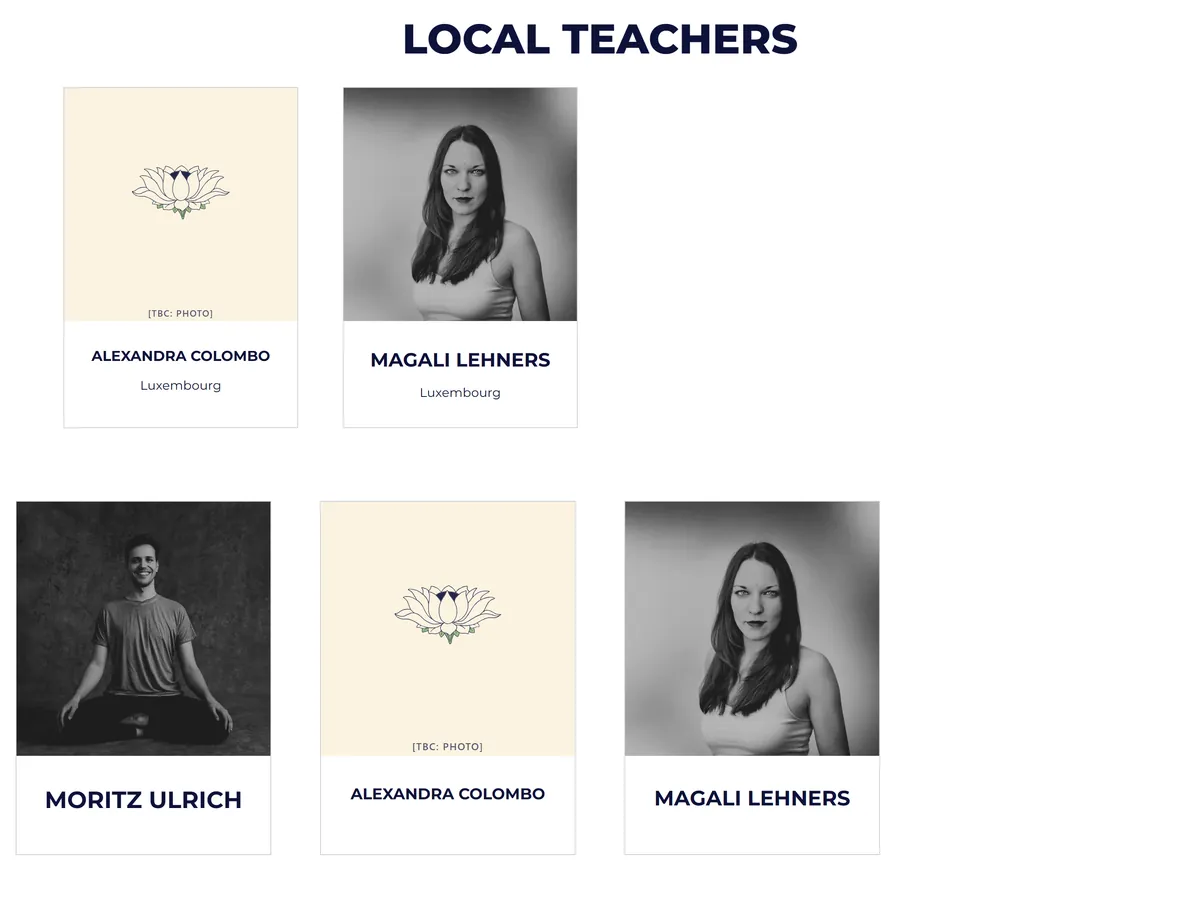
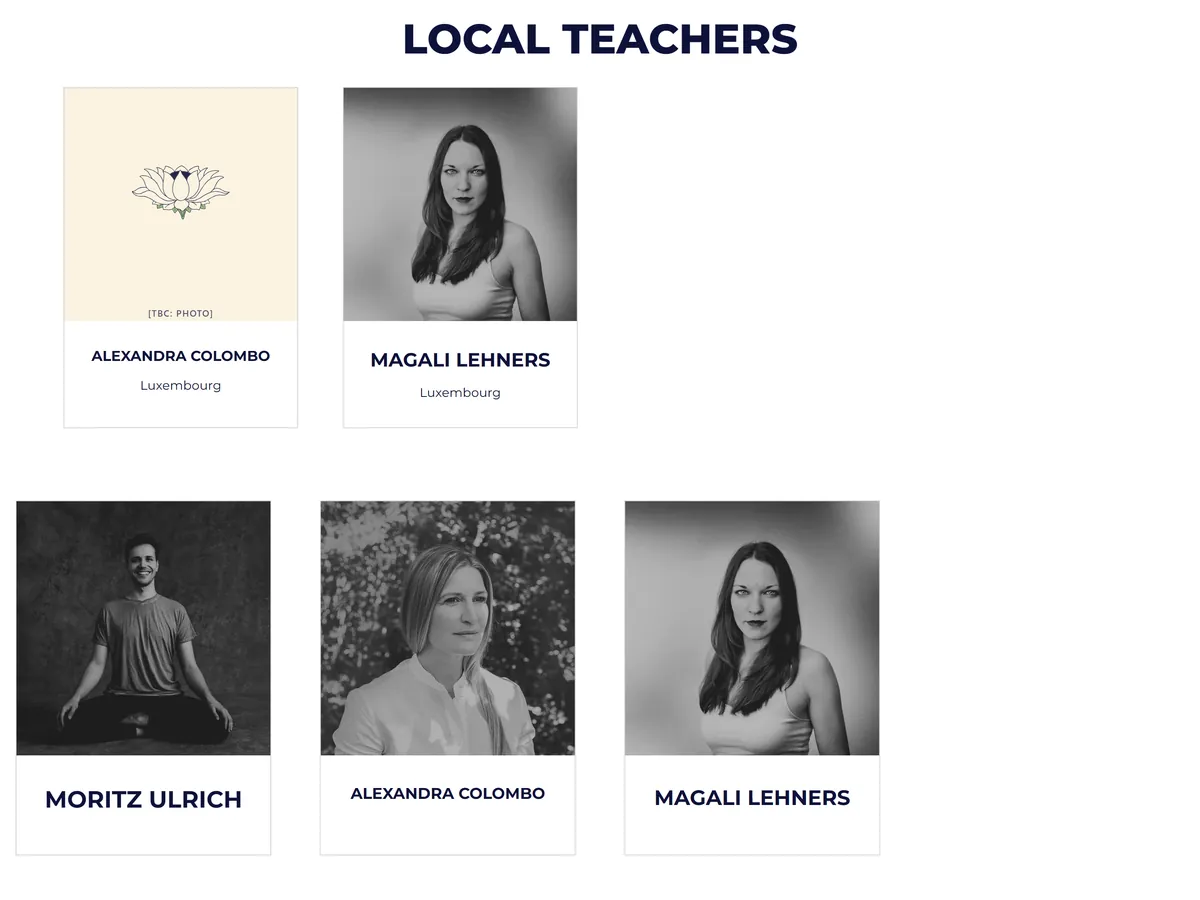
Deploy via Flowriter

diff --git a/changes.html b/changes.html
@@ -42,7 +42,7 @@
       <div class="ch_stat"><p class="ch_stat-num">11</p><p class="ch_stat-label">teachers, one list</p></div>
       <div class="ch_stat"><p class="ch_stat-num">24</p><p class="ch_stat-label">event photos, picked from 178</p></div>
       <div class="ch_stat"><p class="ch_stat-num">2</p><p class="ch_stat-label">venue photos of Coque</p></div>
-      <div class="ch_stat"><p class="ch_stat-num">8</p><p class="ch_stat-label">questions for you</p></div>
+      <div class="ch_stat"><p class="ch_stat-num">6</p><p class="ch_stat-label">questions for you</p></div>
     </div>
   </section>
 
@@ -253,22 +253,23 @@
   <!-- Part 3 -->
   <section class="ch_band">
     <div class="ch_band-inner">
-      <p class="ch_eyebrow">Part 3 · 6 changes</p>
+      <p class="ch_eyebrow">Part 3 · 7 changes</p>
       <h2 class="ch_h2">Images and layout</h2>
-      <p class="ch_band-sub">Portraits, photos, page headers and phones.</p>
+      <p class="ch_band-sub">Portraits, bios, photos, page headers and phones.</p>
     </div>
   </section>
   <section class="ch_section">
     <div class="ch_grid">
 
       <article class="ch_card">
-        <div class="ch_media">
-          <img src="assets/images/changes/c16-portraits.webp" alt="The whole line-up: eight portraits and three lotus placeholders" class="ch_shot" width="1200" height="900" loading="lazy">
+        <div class="ch_media ch_media--side">
+          <img src="assets/images/changes/c16-portraits.webp" alt="The line-up grid. Before: three lotus placeholders among the portraits. Now: eleven black and white portraits" class="ch_shot" width="1200" height="900" loading="lazy">
+          <span class="ch_tag is-first">Before</span><span class="ch_tag is-second">Now</span>
         </div>
         <div class="ch_body">
-          <div class="ch_meta"><span class="ch_num">16</span><span class="ch_chip is-need">Needs 3 portraits</span></div>
-          <h3 class="ch_title">Teacher portraits</h3>
-          <p class="ch_text">Eight portraits from the previous Tribe. Camilla Veen, Martyna Febre and Alexandra Colombo show a lotus until theirs arrive.</p>
+          <div class="ch_meta"><span class="ch_num">16</span><span class="ch_chip is-done">Done</span></div>
+          <h3 class="ch_title">Eleven portraits, one look</h3>
+          <p class="ch_text">The three missing portraits, for Camilla Veen, Martyna Febre and Alexandra Colombo, are added and matched in black and white to the other eight.</p>
         </div>
       </article>
 
@@ -297,6 +298,17 @@
       </article>
 
       <article class="ch_card ch_card--wide">
+        <div class="ch_media">
+          <img src="assets/images/changes/c19-bios.webp" alt="The teacher pop-up on the line-up page: Camilla Veen's name and bio beside her portrait" class="ch_shot" width="1200" height="900" loading="lazy">
+        </div>
+        <div class="ch_body ch_body--wide">
+          <div class="ch_meta"><span class="ch_num">19</span><span class="ch_chip is-done">Done</span></div>
+          <h3 class="ch_title">A bio for every teacher</h3>
+          <p class="ch_text">All eleven teachers now have a short bio, taken from their official Jivamukti profile or their own website. It opens when you click a teacher on the line-up page.</p>
+        </div>
+      </article>
+
+      <article class="ch_card ch_card--wide">
         <div class="ch_phones">
           <figure class="ch_phone-wrap">
             <div class="ch_phone"><img src="assets/images/changes/phone-home.webp" alt="Home page on a phone" class="ch_phone-shot" width="780" height="1688"></div>
@@ -312,7 +324,7 @@
           </figure>
         </div>
         <div class="ch_body ch_body--wide">
-          <div class="ch_meta"><span class="ch_num">19</span><span class="ch_chip is-done">Done</span></div>
+          <div class="ch_meta"><span class="ch_num">20</span><span class="ch_chip is-done">Done</span></div>
           <h3 class="ch_title">Clean on phones</h3>
           <p class="ch_text">The logo, page title and round logo no longer overlap on any page, and the round logo is smaller on phones.</p>
         </div>
@@ -330,7 +342,7 @@
           </figure>
         </div>
         <div class="ch_body ch_body--wide">
-          <div class="ch_meta"><span class="ch_num">20</span><span class="ch_chip is-done">Done</span></div>
+          <div class="ch_meta"><span class="ch_num">21</span><span class="ch_chip is-done">Done</span></div>
           <h3 class="ch_title">Register page, rebuilt</h3>
           <p class="ch_text">Before, it only said registration opens soon. Now it has the same layout as the Rome site, with pass cards, day passes, concert and single classes, on phones, tablets and desktop.</p>
         </div>
@@ -341,7 +353,7 @@
           <img src="assets/images/changes/c21-announcement.webp" alt="The top of the announcement page" class="ch_shot" width="1200" height="900" loading="lazy">
         </div>
         <div class="ch_body ch_body--wide">
-          <div class="ch_meta"><span class="ch_num">21</span><span class="ch_chip is-done">Done</span></div>
+          <div class="ch_meta"><span class="ch_num">22</span><span class="ch_chip is-done">Done</span></div>
           <h3 class="ch_title">Announcement page</h3>
           <p class="ch_text">Logo, dates, countdown, line-up and "More information coming soon", in case you'd rather show only that first.</p>
         </div>
@@ -353,9 +365,9 @@
   <!-- Part 4 -->
   <section class="ch_band ch_band--yellow">
     <div class="ch_band-inner">
-      <p class="ch_eyebrow">Part 4 · 8 questions</p>
+      <p class="ch_eyebrow">Part 4 · 6 questions</p>
       <h2 class="ch_h2">What we need from you</h2>
-      <p class="ch_band-sub">The open points from our email, in the same order.</p>
+      <p class="ch_band-sub">The points still open from our email.</p>
     </div>
   </section>
   <section class="ch_section">
@@ -364,10 +376,8 @@
       <li class="ch_need"><span class="ch_need-num">2</span><span class="ch_need-text">The OPEN registration link for 2027.</span></li>
       <li class="ch_need"><span class="ch_need-num">3</span><span class="ch_need-text">The concert: is there one, who plays, which day, and is it still €49?</span></li>
       <li class="ch_need"><span class="ch_need-num">4</span><span class="ch_need-text">Which single classes and workshops run in Luxembourg.</span></li>
-      <li class="ch_need"><span class="ch_need-num">5</span><span class="ch_need-text">Portraits for Camilla Veen, Martyna Febre and Alexandra Colombo, plus teacher bios.</span></li>
-      <li class="ch_need"><span class="ch_need-num">6</span><span class="ch_need-text">For the Luxembourg page: getting there, where to stay, favourite places.</span></li>
-      <li class="ch_need"><span class="ch_need-num">7</span><span class="ch_need-text">Updated terms text. It still mentions the 2025 event in Stavanger.</span></li>
-      <li class="ch_need"><span class="ch_need-num">8</span><span class="ch_need-text">Which goes live first: the full site or the announcement page.</span></li>
+      <li class="ch_need"><span class="ch_need-num">5</span><span class="ch_need-text">For the Luxembourg page: getting there, where to stay, favourite places.</span></li>
+      <li class="ch_need"><span class="ch_need-num">6</span><span class="ch_need-text">Which goes live first: the full site or the announcement page.</span></li>
     </ol>
   </section>
 
